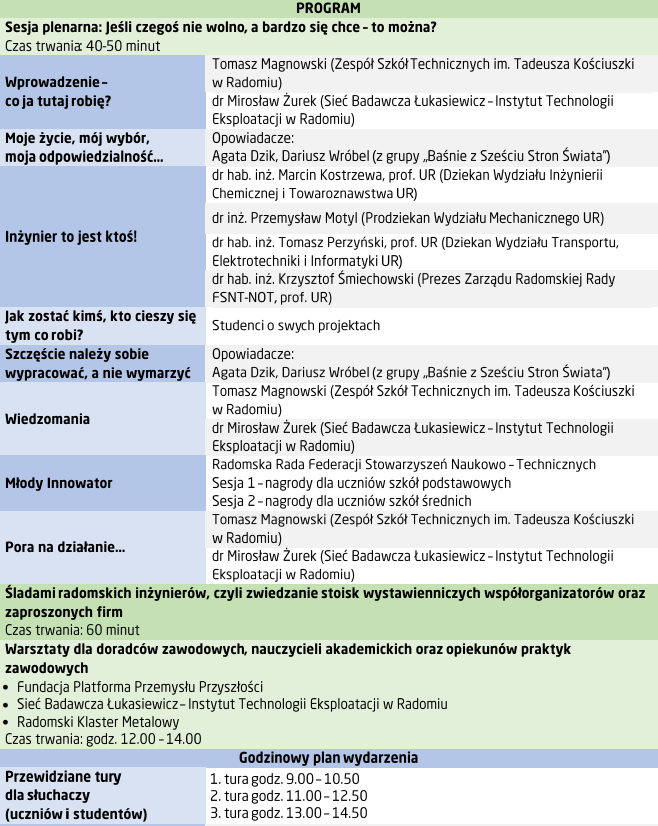
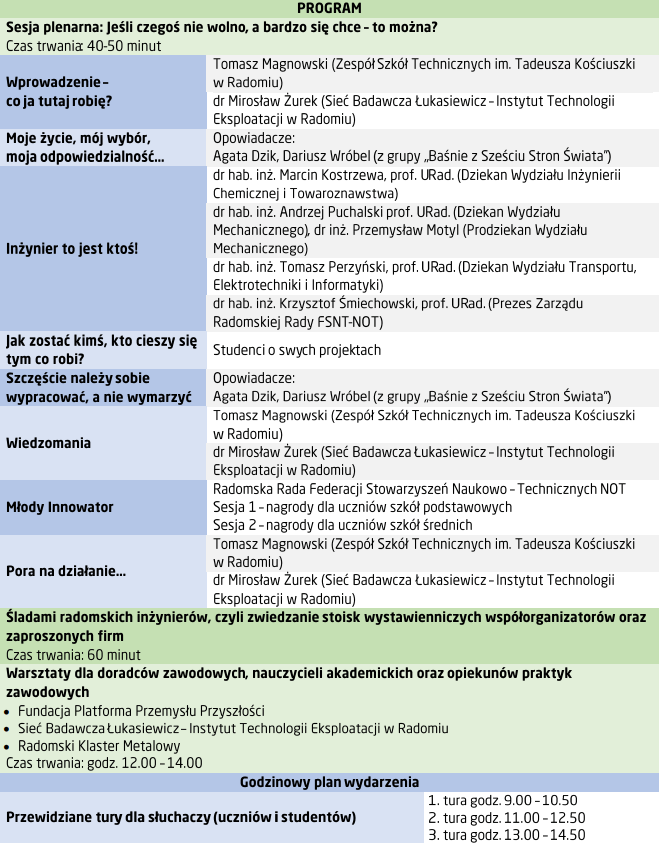
Hash router change (small content changes)

diff --git a/src/constants/images.ts b/src/constants/images.ts
@@ -154,7 +154,7 @@ const speakers: Speaker[] = [
 
   {
     id: "mk-speaker",
-    name: "dr hab. inż. Marcin Kostrzewa, prof. URad",
+    name: "dr hab. inż. Marcin Kostrzewa, prof. URad.",
     desc: "Dziekan Wydziału Inżynierii Chemicznej i Towaroznawstwa",
     lectures: ["Inżynier to jest ktoś!"],
     link: "https://wicit.uniwersytetradom.pl/katedra-fizykochemii-i-technologii-materialow/",
@@ -179,7 +179,7 @@ const speakers: Speaker[] = [
   },
   {
     id: "tp-speaker",
-    name: "dr hab. inż. Tomasz Perzyński, prof. URad",
+    name: "dr hab. inż. Tomasz Perzyński, prof. URad.",
     desc: "Dziekan Wydziału Transportu, Elektrotechniki i Informatyki",
     lectures: ["Inżynier to jest ktoś!"],
     link: "https://uniwersytetradom.pl/2021/04/21/dziekan-wteii-dr-hab-inz-tomasz-perzynski-prof-uth-rad-gosciem-radia-radom/",

diff --git a/src/pages/Speakers/Speakers.tsx b/src/pages/Speakers/Speakers.tsx
@@ -52,7 +52,7 @@ const Speakers = () => {
                 />
               </Col>
               <Col xs={12} md={6}>
-                <h1 className="fw-bold">Prelegaci</h1>
+                <h1 className="fw-bold">Prelegenci</h1>
                 <p className="mb-0">
                   Poznaj mówców, którzy będą dzielić się swoją wiedzą i
                   doświadczeniem podczas Radomskiego Dnia Inżyniera.{" "}

diff --git a/src/App.tsx b/src/App.tsx
@@ -14,7 +14,7 @@ function App() {
         <Route path="mapa-stoisk">
           <Route index element={<Exhibitions />} />
         </Route>
-        <Route path="prelegaci" element={<Speakers />} />
+        <Route path="prelegenci" element={<Speakers />} />
         <Route path="program-wydarzenia" element={<EventProgram />} />
         <Route path="*" element={<Home />} />
       </Route>

diff --git a/src/main.tsx b/src/main.tsx
@@ -1,9 +1,9 @@
 import ReactDOM from "react-dom/client";
 import App from "./App.tsx";
-import { BrowserRouter } from "react-router-dom";
+import { HashRouter } from "react-router-dom";
 
 ReactDOM.createRoot(document.getElementById("root")!).render(
-  <BrowserRouter>
+  <HashRouter>
     <App />
-  </BrowserRouter>
+  </HashRouter>
 );

diff --git a/src/components/Navigation/Navigation.tsx b/src/components/Navigation/Navigation.tsx
@@ -18,7 +18,7 @@ const routes = [
     icon: "bi-map-fill",
   },
   {
-    path: "/prelegaci",
+    path: "/prelegenci",
     text: "Mówcy",
     icon: "bi-people-fill",
   },
